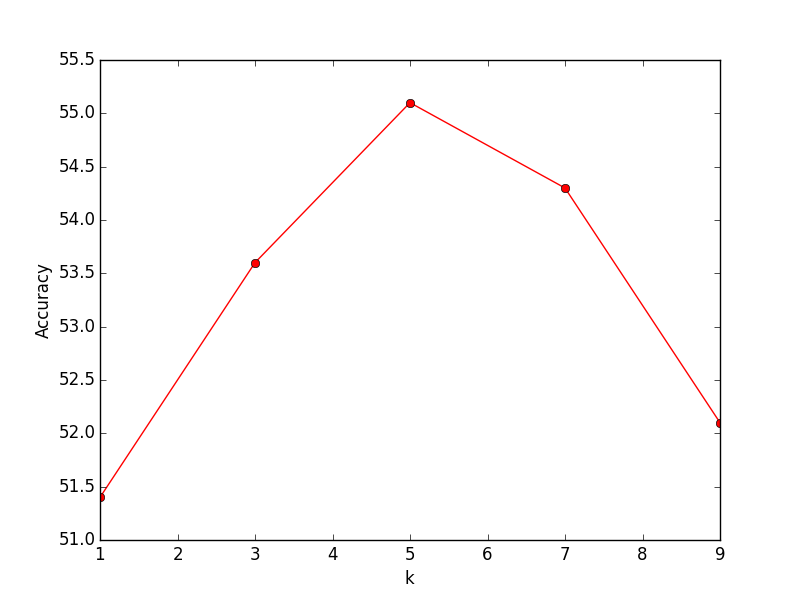
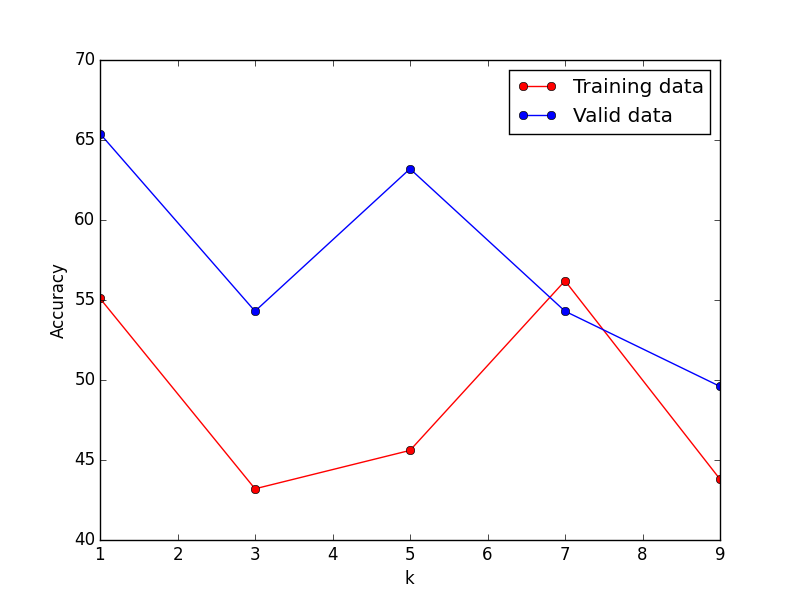
Changed graph to have 2 plots

diff --git a/project.py b/project.py
@@ -5,11 +5,12 @@ from sklearn.mixture import GMM
 from sklearn.neighbors import KNeighborsClassifier
 from sklearn.preprocessing import StandardScaler
 from sklearn.svm import LinearSVC, SVC
-from sknn.mlp import Classifier, Convolution, Layer
+#from sknn.mlp import Classifier, Convolution, Layer
 import matplotlib.pyplot as plt
 import numpy as np
 import pickle
 import scipy.io as sio
+import pylab
 
 
 def get_different_classes(imgs, labels):
@@ -143,10 +144,12 @@ def get_accuracy(model, test_input, test_targets):
     return (ctr/float(num_examples))
 
 
-def plot(x_data, y_data, x_label, y_label, fig_name):
-    fig = plt.plot(x_data,y_data, 'r-o')
+def plot(x_data, y_train, y_valid, x_label, y_label, fig_name):
+    plt.plot(x_data,y_train, 'r-o', label='Training data')
+    plt.plot(x_data,y_valid, 'b-o', label='Valid data')
     plt.xlabel(x_label)
     plt.ylabel(y_label)
+    pylab.legend(loc='upper right')
     plt.savefig(fig_name)
     plt.show()
 
@@ -159,6 +162,10 @@ if __name__ == '__main__':
     training_labels = training_data['tr_labels']
 
     emotions = {1: 'Anger', 2: 'Disgust', 3: 'Fear', 4: 'Happy', 5: 'Sad', 6: 'Surprise', 7: 'Neutral'}
+
+    plot([1,3,5,7,9], [55.1, 43.2, 45.6, 56.2, 43.8], [65.4,54.3,63.2,54.3,49.6], 'k', 'Accuracy', 'sample_graph.png')
+
+
 
 #     d = get_different_classes(training_imgs, training_labels)
 #
@@ -192,17 +199,17 @@ if __name__ == '__main__':
 #     sio.savemat('data.mat', data)
 #
 #     sio.savemat('divided_tr_data.mat', d)
-
-    train_imgs = training_imgs[:,:,:2500]
-    train_labels = training_labels[:2500]
-    test_imgs = training_imgs[:,:,:2500]
-    test_labels = training_labels[:2500]
-
-    train_input, train_targets, train_scaler = get_input(train_imgs, train_labels)
-    test_input, test_targets, _ = get_input(test_imgs, test_labels, train_scaler)
-
-    train_input_pca, train_targets_pca, train_pca = get_input_pca(train_imgs, train_labels)
-    test_input_pca, test_targets_pca, _ = get_input(test_imgs, test_labels, train_pca)
+# 
+#     train_imgs = training_imgs[:,:,:2500]
+#     train_labels = training_labels[:2500]
+#     test_imgs = training_imgs[:,:,:2500]
+#     test_labels = training_labels[:2500]
+# 
+#     train_input, train_targets, train_scaler = get_input(train_imgs, train_labels)
+#     test_input, test_targets, _ = get_input(test_imgs, test_labels, train_scaler)
+# 
+#     train_input_pca, train_targets_pca, train_pca = get_input_pca(train_imgs, train_labels)
+#     test_input_pca, test_targets_pca, _ = get_input(test_imgs, test_labels, train_pca)
 
     # knn = learn_knn(train_input, train_targets, 5)
     # print calculate_accuracy(knn, test_input, test_targets)
@@ -242,10 +249,10 @@ if __name__ == '__main__':
     # gmm = learn_gmm(train_input, train_targets)
     # print calculate_accuracy(gmm, test_input, test_targets - 1)
 
-    nn = learn_nn(train_input, train_targets)
-    pickle.dump(nn, open('nn.pkl', 'wb'))
-    print(calculate_accuracy(nn, test_input, test_targets))
-
+#     nn = learn_nn(train_input, train_targets)
+#     pickle.dump(nn, open('nn.pkl', 'wb'))
+#     print(calculate_accuracy(nn, test_input, test_targets))
+# 
     # pub_test = sio.loadmat('public_test_images')['public_test_images']
     # pub_test_input, pub_test_target, _ = get_input(pub_test, test_labels, train_scaler)
     # produce_submission(log_reg_pca, pub_test_input)
